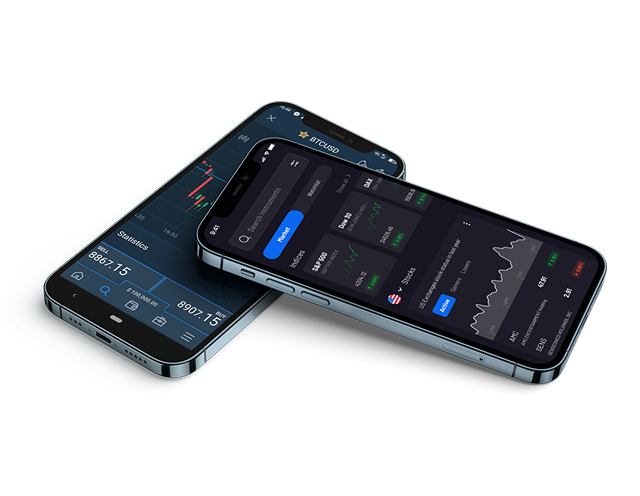
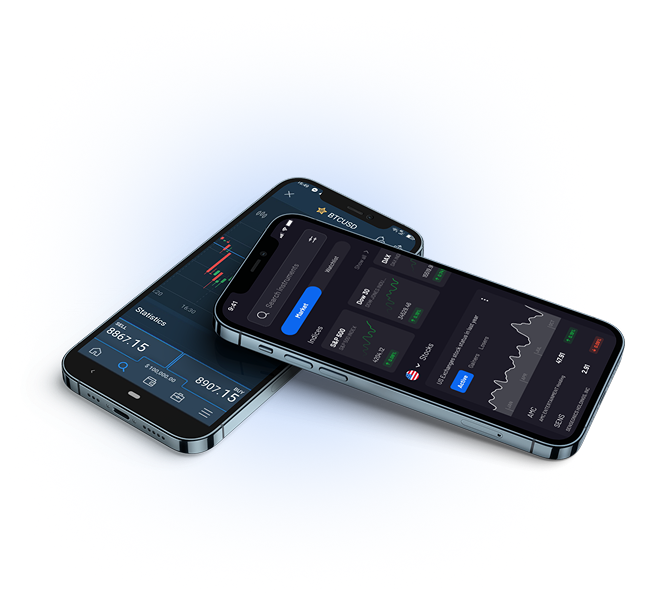
1)added a graph fill color 2)Re-created a mobile image section

Changed region(s): [[0.0312, 0.1815, 0.9688, 0.7863]]

diff --git a/src/components/TradingTools.jsx b/src/components/TradingTools.jsx
@@ -2,7 +2,7 @@ import React from "react";
 
 const TradingTools = () => {
   return (
-    <section className="lg:py-20  bg-[#030B20]">
+    <section className="pb-3 lg:py-20  bg-[#030B20]">
       <div className="container mx-auto px-4">
         {/* Title and description row */}
 
@@ -21,7 +21,8 @@ const TradingTools = () => {
 
         {/* Platform content */}
         <div className="row">
-          <div className="col-12 platform-content">
+          {/* <div className="col-12 platform-content"> */}
+          <div className="relative sm:flex justify-center items-center">
             <img
               src="/images/iPhone12Pro.png"
               className="t-platform-image"
@@ -32,9 +33,10 @@ const TradingTools = () => {
               className="t-platform-image"
               alt=""
             /> */}
-            <div className="platform-grid ">
+            <div className="platform-grid">
               {/* <a href="" className=" pf-card pf-card-1 bg-[#fff] mb-3  md:mb-0"> */}
-              <a className="pf-card pf-card-1 bg-[#fff] mb-3 md:mb-0 cursor-pointer">
+              {/* <a className="pf-card pf-card-1 bg-[#fff] mb-3 md:mb-0 cursor-pointer"> */}
+              <a className="sm:absolute left-0 xl:left-1/6 top-1/5 bg-[#fff] mb-3 md:mb-0 cursor-pointer">
                 <img
                   src="/images/hero-icons/mt4.svg"
                   className="grid-img"
@@ -45,7 +47,8 @@ const TradingTools = () => {
                   <p>Level up your experience.</p>
                 </div>
               </a>
-              <a className="pf-card pf-card-2 bg-[#fff] mb-3 md:mb-0 cursor-pointer">
+              {/* <a className="pf-card pf-card-2 bg-[#fff] mb-3 md:mb-0 cursor-pointer"> */}
+              <a className="sm:absolute left-0 xl:left-1/6 bottom-4 xl:bottom-1/6 bg-[#fff] mb-3 md:mb-0 cursor-pointer">
                 <img
                   src="/images/hero-icons/mt5.svg"
                   className="grid-img"
@@ -56,7 +59,8 @@ const TradingTools = () => {
                   <p>A step up in Trading function</p>
                 </div>
               </a>
-              <a className="pf-card pf-card-4 bg-[#fff] mb-3 md:mb-0 cursor-pointer">
+              {/* <a className="pf-card pf-card-4 bg-[#fff] mb-3 md:mb-0 cursor-pointer"> */}
+              <a className="sm:absolute right-0 xl:right-1/6 bottom-1/6 xl:bottom-1/5 bg-[#fff]  md:mb-0 cursor-pointer">
                 <img
                   src="/images/hero-icons/security.png"
                   className="grid-img"

diff --git a/src/pages/CryptoBubbles.jsx b/src/pages/CryptoBubbles.jsx
@@ -39,7 +39,7 @@ const CryptoBubbles = ({ height }) => {
 
   const [data, setData] = useState([]);
   const [selectedCoin, setSelectedCoin] = useState(null);
-  const [timeRange, setTimeRange] = useState("24h");
+  const [timeRange, setTimeRange] = useState("7d");
   const [tooltipData, setTooltipData] = useState({
     visible: false,
     x: 0,
@@ -986,7 +986,13 @@ const CryptoBubbles = ({ height }) => {
                       style={{ fill: "none", strokeWidth: 1 }}
                     />
                     <SparklinesSpots size={2} />
-                    <SparklinesCurve />
+                    <SparklinesCurve
+                      color={
+                        currentCoin[`price_change_${tooltipTimeRange}`] >= 0
+                          ? "#00ff00"
+                          : "#ff4444"
+                      }
+                    />
                   </Sparklines>
 
                   {/* Overlay for hover interaction */}
